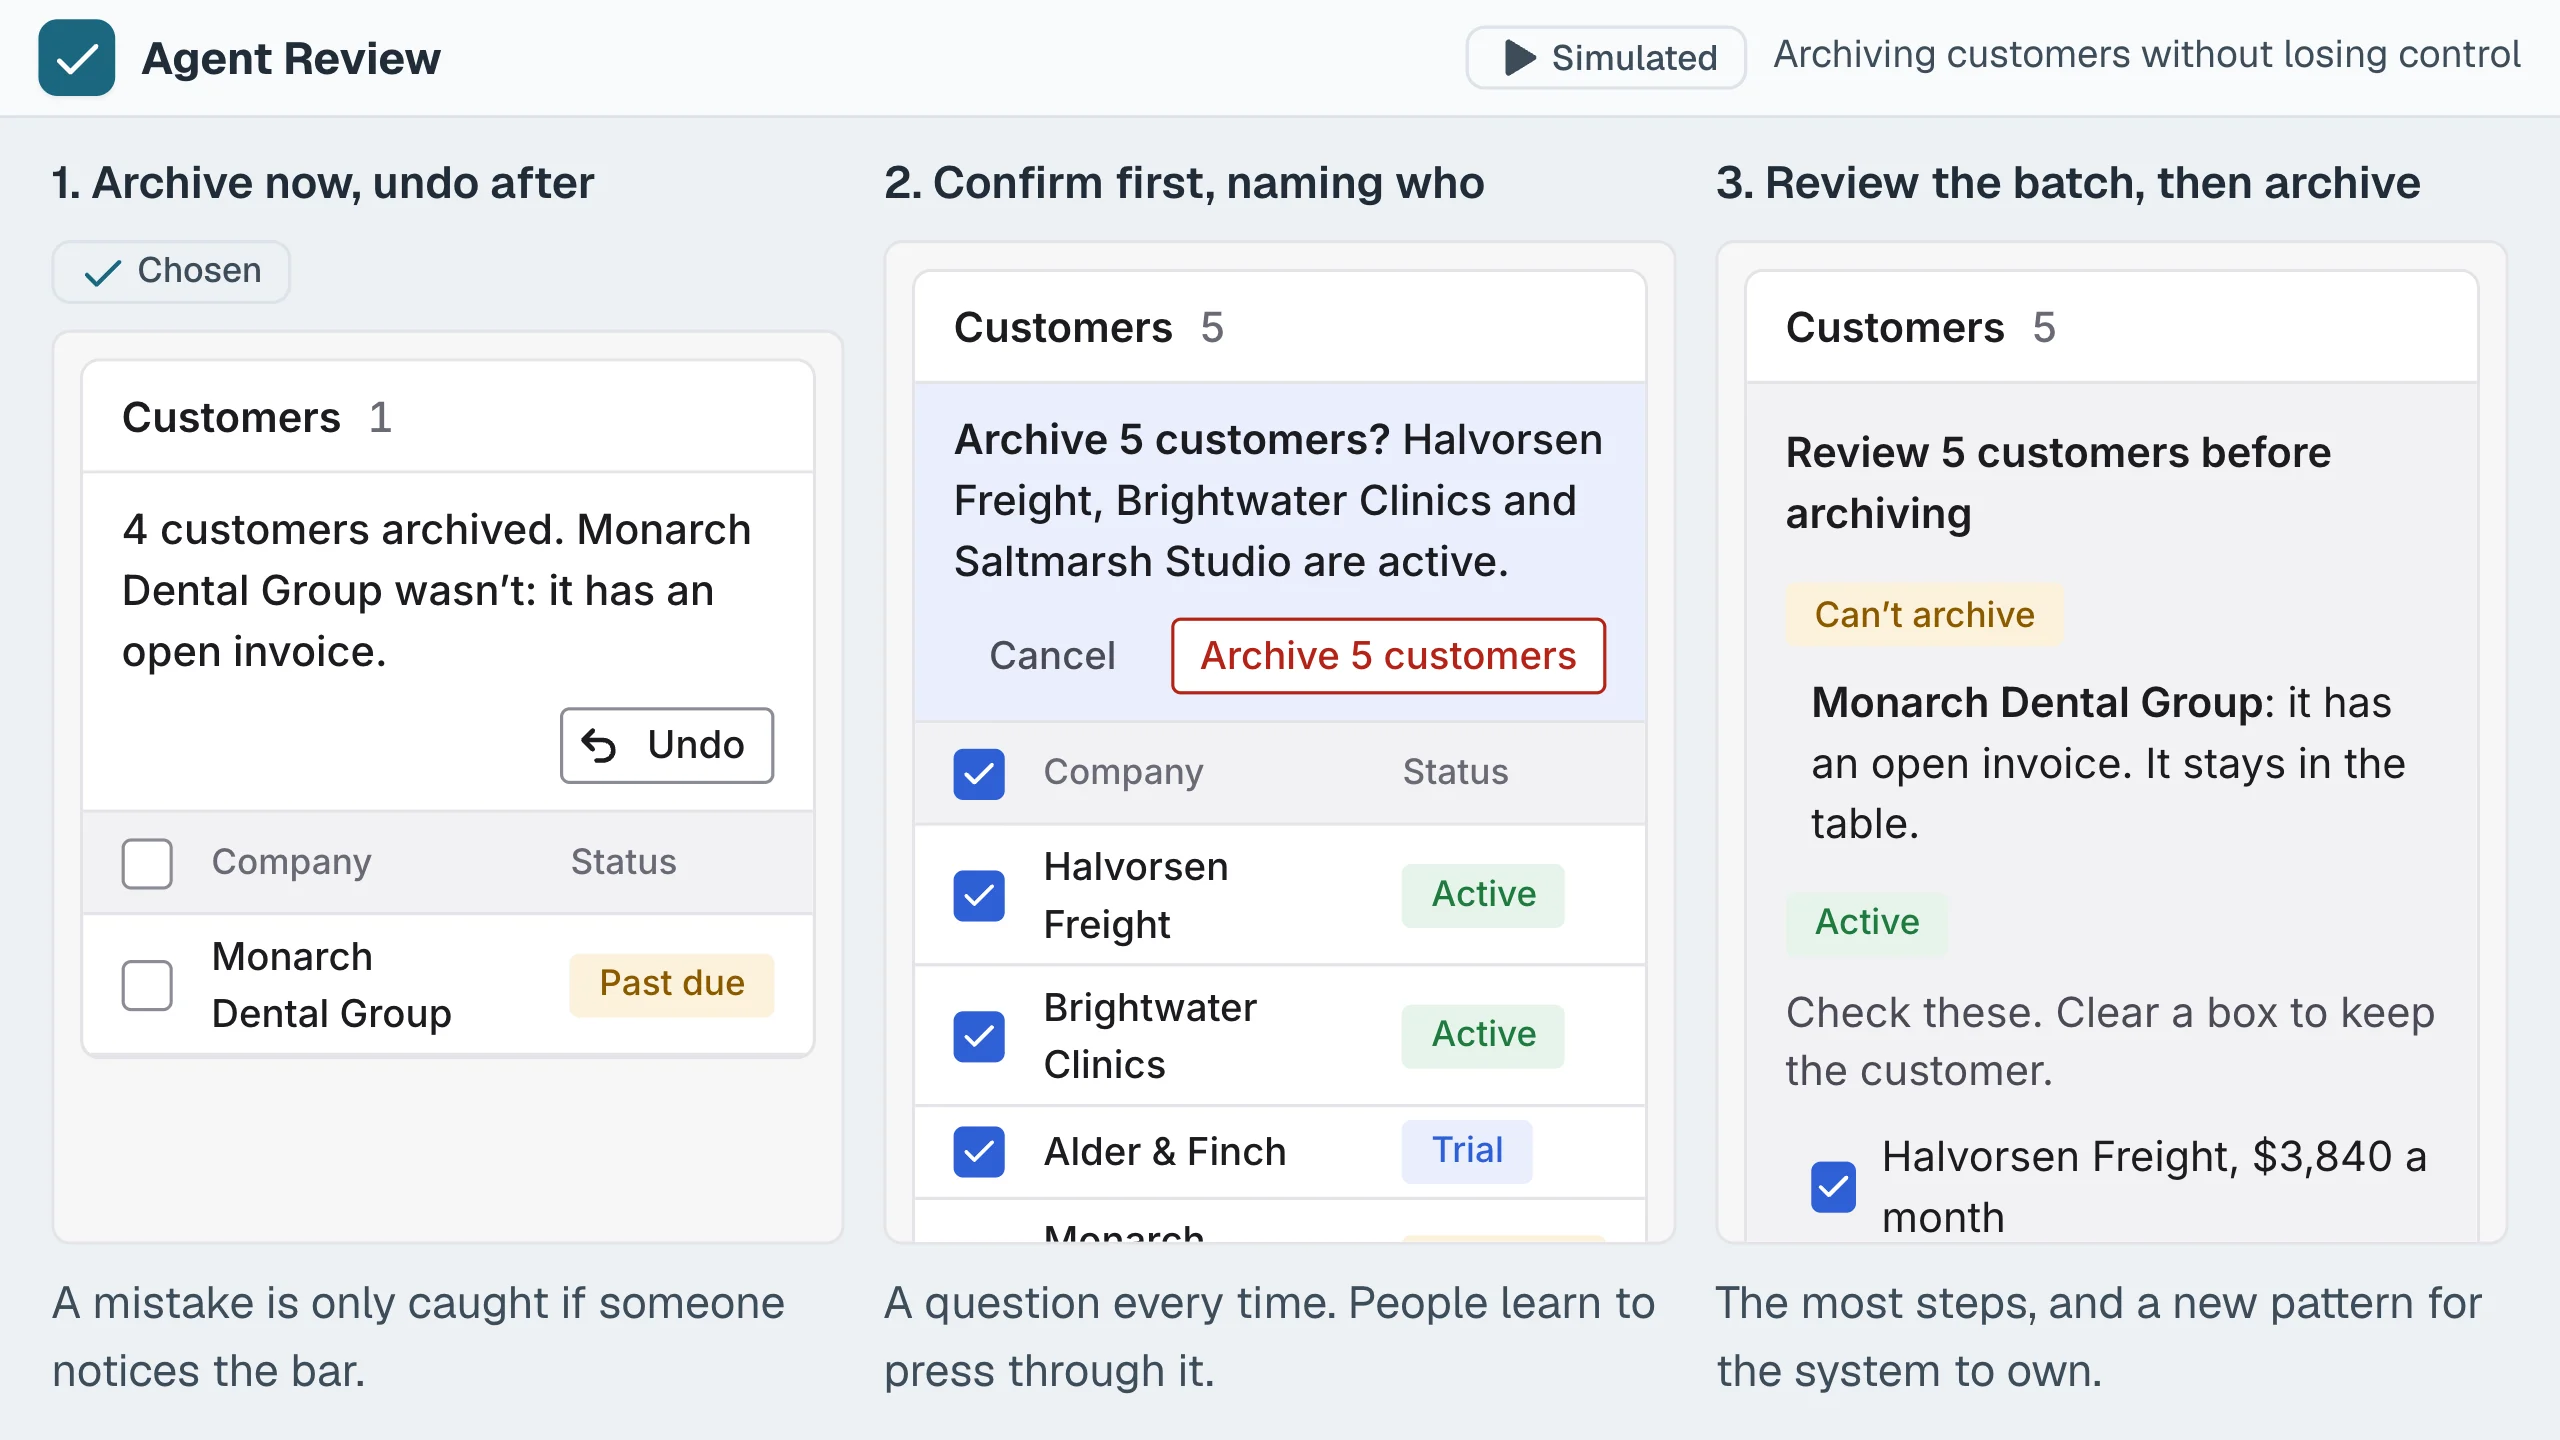
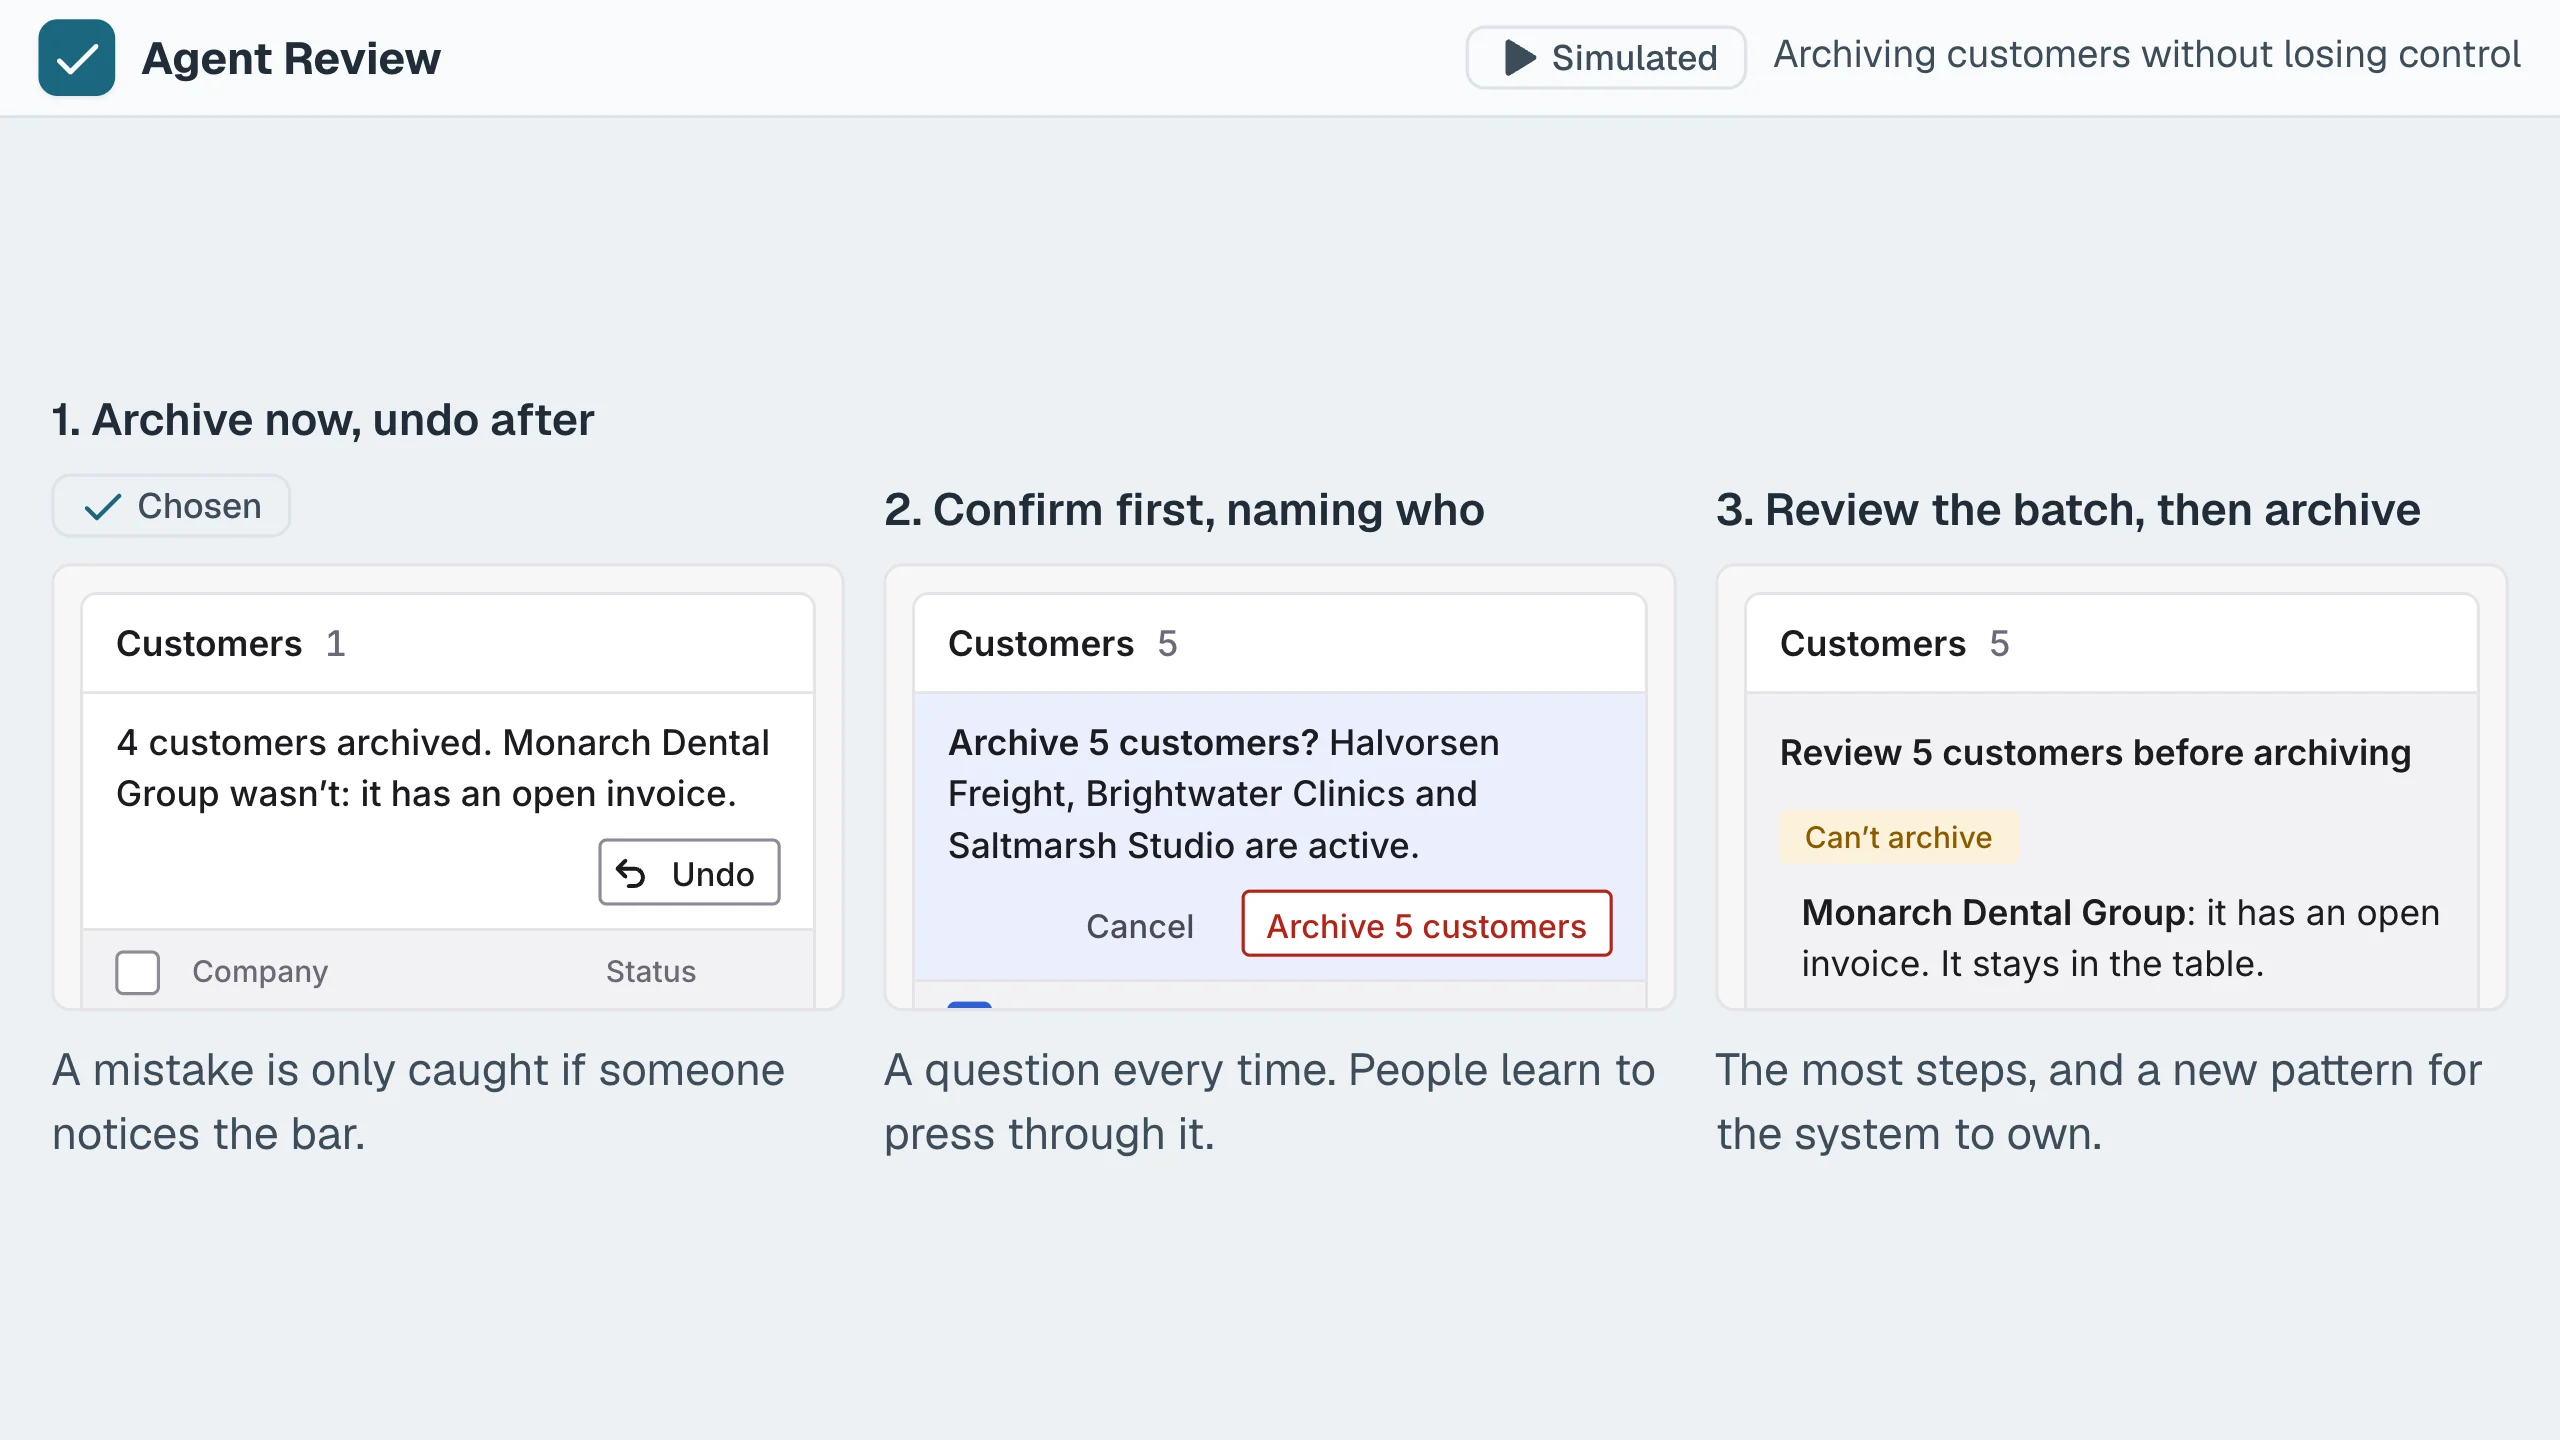
Agent Review's three-directions scene retaken after agent-review#54: each of the three screens is 16:9, where they were drawn portrait, and the names, screens and costs line up across the columns. The homepage card, the lab index and the case study show it; agent-review-scene-three to ?v=3

diff --git a/lab/agent-review.html b/lab/agent-review.html
@@ -500,7 +500,7 @@
               <p class="ar-cycle-story">The agent builds three working versions: undo after, confirm first, and review the whole batch.</p>
               <p class="ar-cycle-call"><strong>Alex&rsquo;s call</strong> Judge each by what it costs the people who archive every day, not by how it looks.</p>
             </div>
-            <figure class="ar-scene"><img src="../img/lab/agent-review-scene-three.webp?v=2" width="2560" height="1440" loading="lazy" decoding="async"
+            <figure class="ar-scene"><img src="../img/lab/agent-review-scene-three.webp?v=3" width="2560" height="1440" loading="lazy" decoding="async"
                  alt="The three directions, each working on the same five customers. Archive now, undo after, marked Chosen: four archived, Monarch Dental Group refused, and Undo. Confirm first: a question naming the three active customers. Review the batch: Monarch Dental Group set aside and each active customer with a box. Under each, its cost." /></figure>
           </li>
           <li class="ar-cycle-full">

diff --git a/lab/index.html b/lab/index.html
@@ -289,7 +289,7 @@
           </li>
           <li class="writing-item">
             <a class="writing-link" href="agent-review.html">
-              <img class="writing-card" src="../img/lab/agent-review-scene-three.webp?v=2" width="2560" height="1440" alt="" decoding="async" />
+              <img class="writing-card" src="../img/lab/agent-review-scene-three.webp?v=3" width="2560" height="1440" alt="" decoding="async" />
               <div class="writing-text">
                 <h3 class="writing-title">Agent Review: design judgment when agents join the team</h3>
                 <p class="writing-dek">A prototype that follows one feature from a support ticket to what ships, with a coding agent doing the building. Its scenarios are simulated.</p>

diff --git a/index.html b/index.html
@@ -924,7 +924,7 @@
               </p>
             </div>
             <a class="case-thumb" href="lab/agent-review.html" aria-label="Read the Agent Review case study: three ways to archive, one designer&rsquo;s call">
-              <img src="img/lab/agent-review-scene-three.webp?v=2" width="2560" height="1440" alt="" loading="lazy" decoding="async" />
+              <img src="img/lab/agent-review-scene-three.webp?v=3" width="2560" height="1440" alt="" loading="lazy" decoding="async" />
             </a>
           </div>
         </div>
